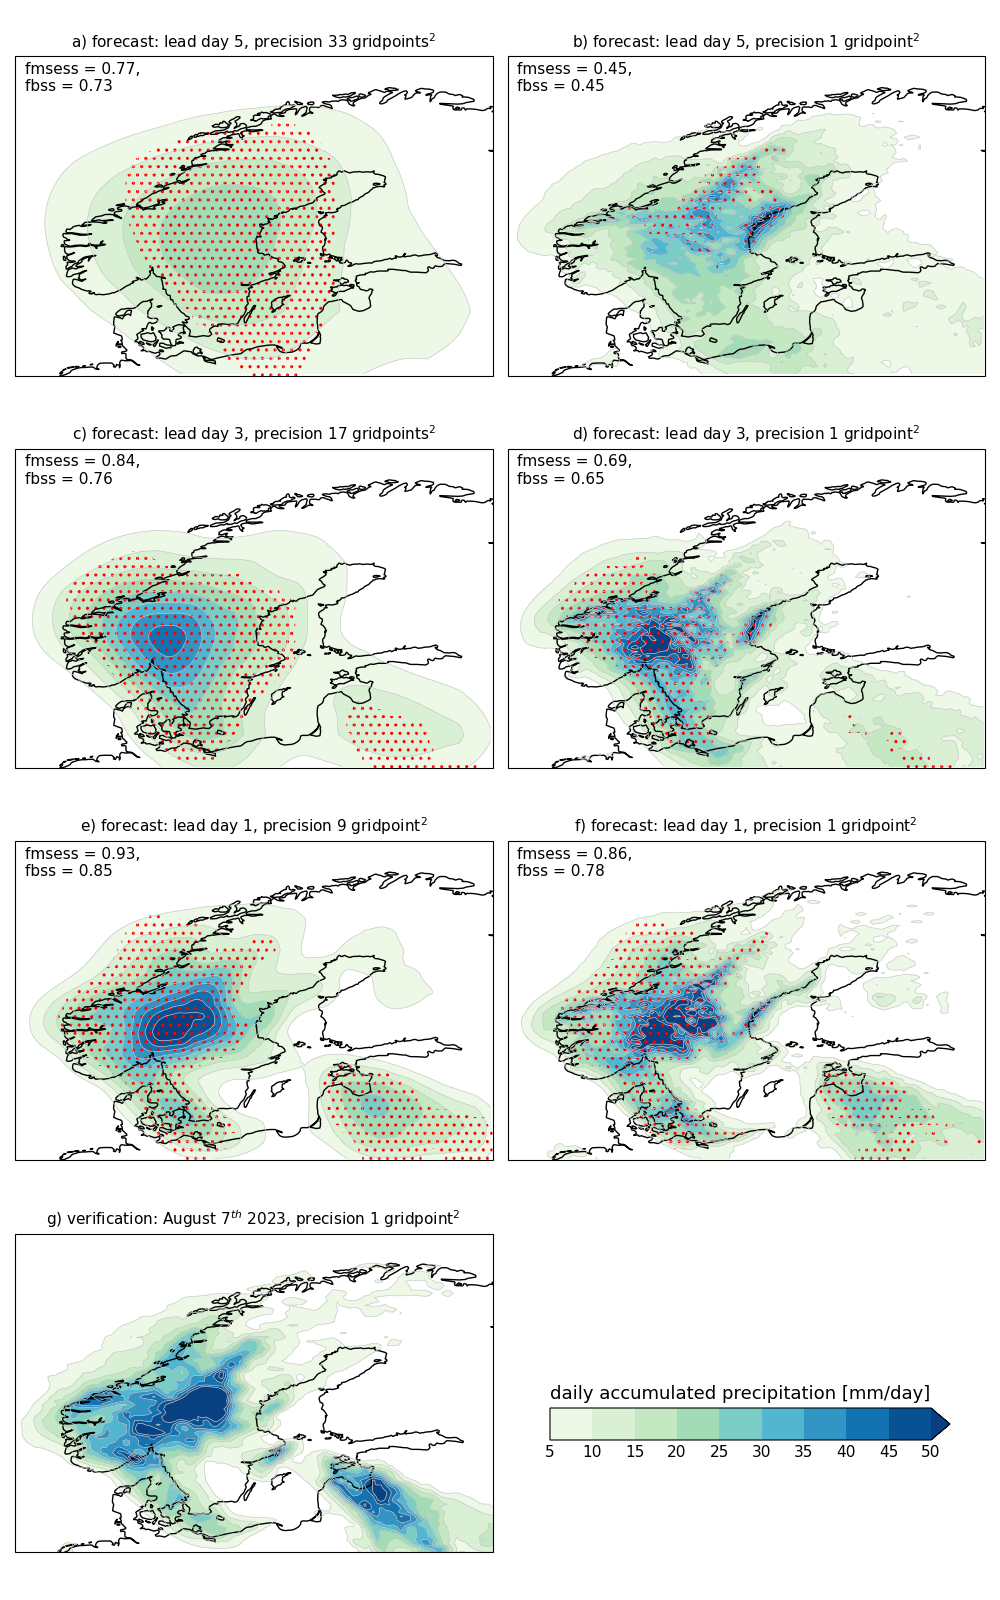
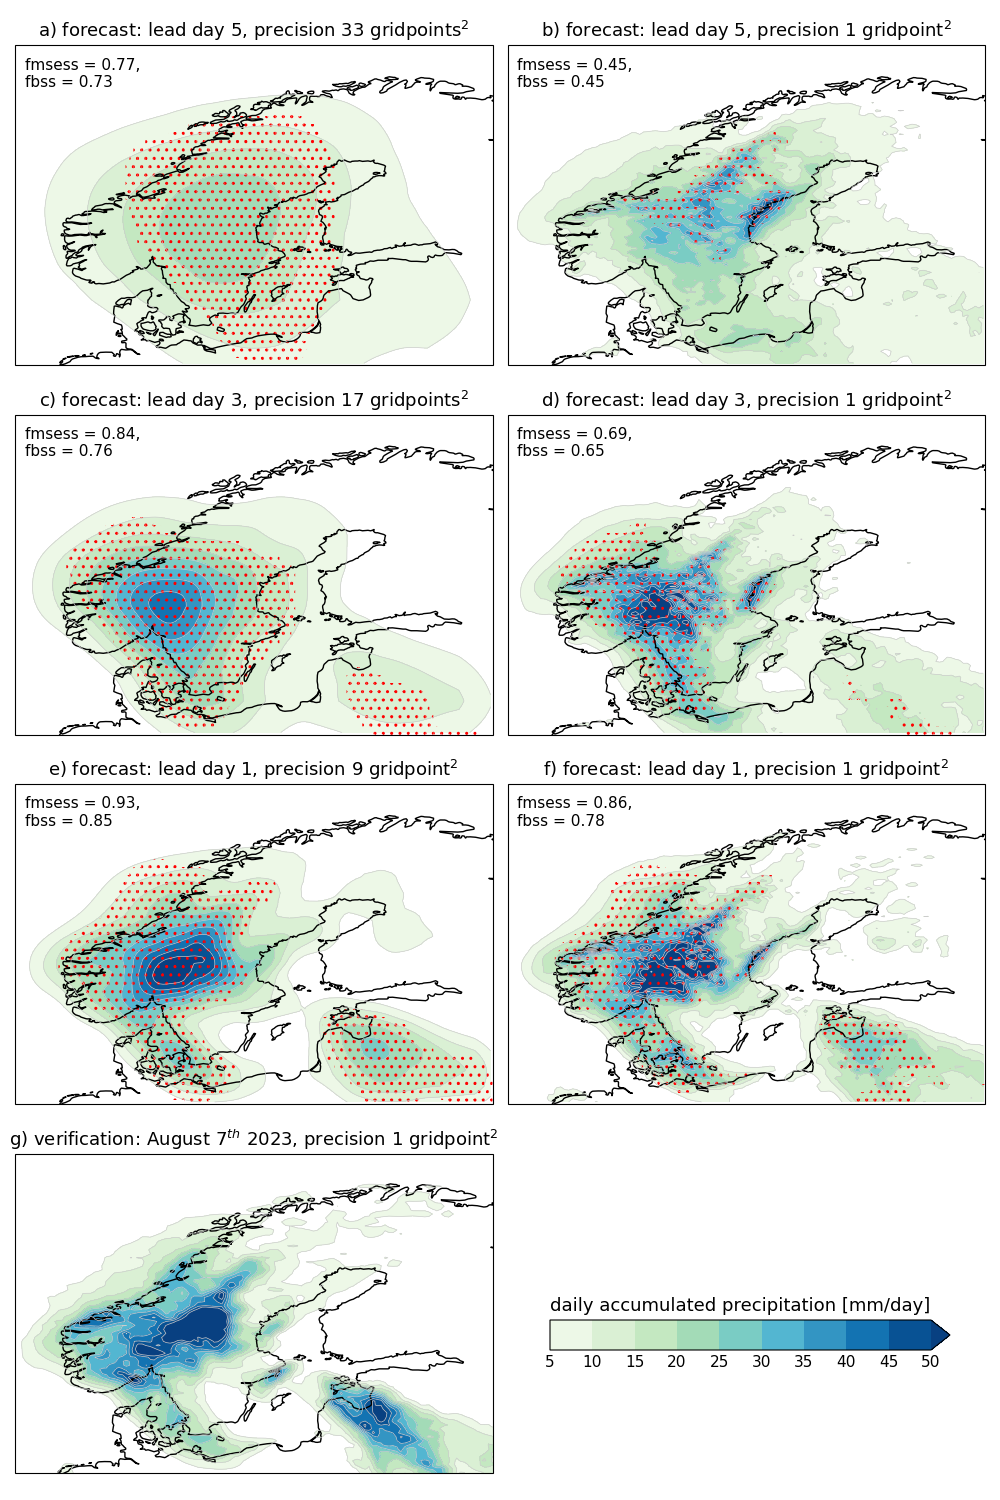
update

diff --git a/code/plot/plot-fig-05-new.py b/code/plot/plot-fig-05-new.py
@@ -31,8 +31,8 @@ def setup_subplot_xy(flag, ax, ds1, ds2, clevs, cmap, fontsize, title, stats):
     #    ax.pcolor(lon, lat, ds1, hatch='..', cmap=mpl.colors.ListedColormap(['none']), edgecolor=[1.0,0.0,0.0], lw=0)
         
     ax.coastlines(color='k',linewidth=1)
-    ax.set_title(title,fontsize=fontsize)
-    ax.text(0.02,0.89,stats,fontsize=fontsize,transform=ax.transAxes)
+    ax.set_title(title,fontsize=fontsize+2)
+    ax.text(0.02,0.87,stats,fontsize=fontsize,transform=ax.transAxes)
     """
     if flag == 1 :
         rectangle = plt.Rectangle((31.75, 72.75), rectangle_length, rectangle_length, angle=180, fc=(0.5,0.5,0.5,0),ec='r',lw=2)
@@ -100,7 +100,7 @@ da7[variable] = da7[variable]*1000
 fontsize = 11
 clevs    = np.arange(5,55,5)
 cmap     = 'GnBu'
-figsize  = np.array([10,16])
+figsize  = np.array([10,15])
 fig,ax   = plt.subplots(nrows=4,ncols=2,figsize=(figsize[0],figsize[1]),subplot_kw={'projection': ccrs.PlateCarree(central_longitude=0.0)})
 ax       = ax.ravel()
 
